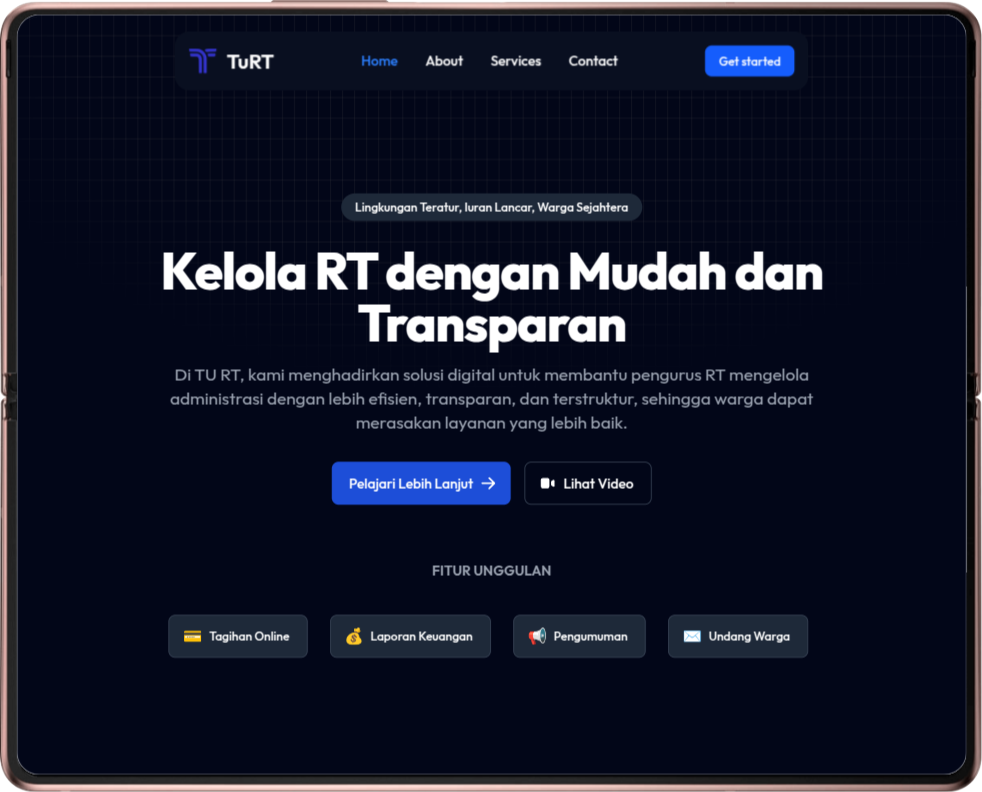
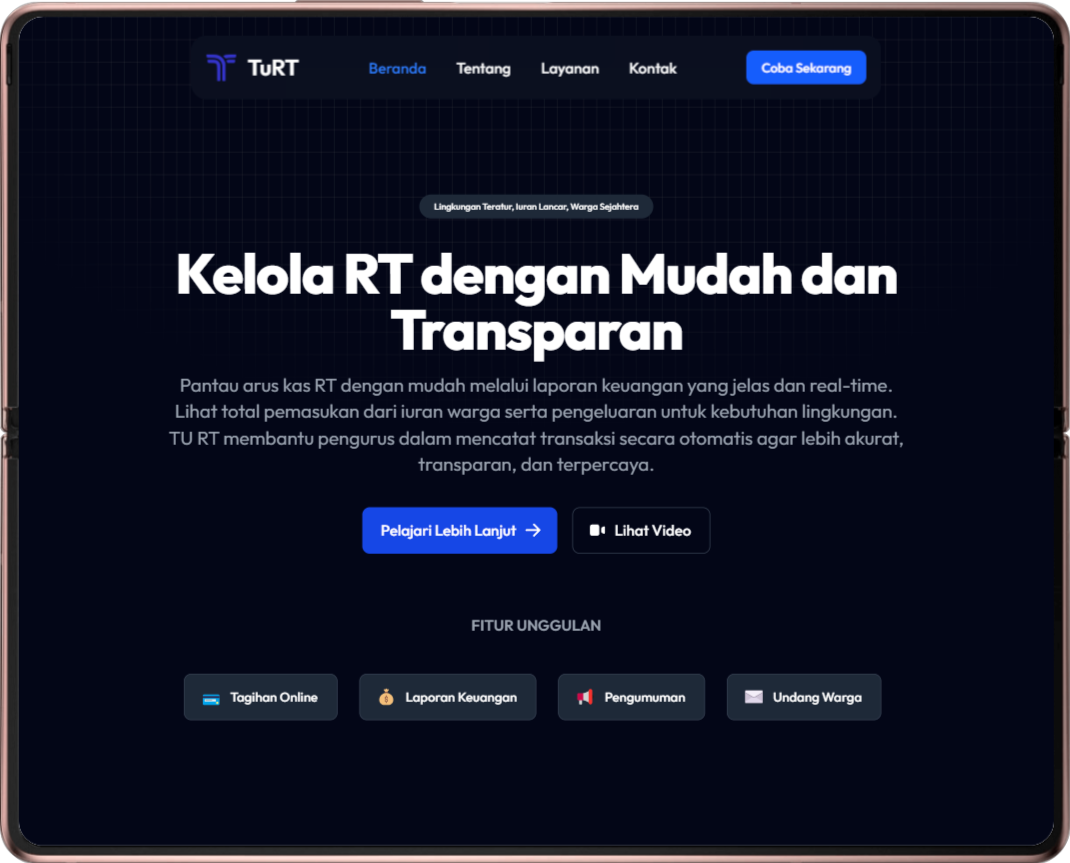
update: change navbar text to Indonesian feat: add contact feature

diff --git a/index.html b/index.html
@@ -1,5 +1,5 @@
 <!doctype html>
-<html lang="en">
+<html class="scroll-smooth" lang="en">
   <head>
     <meta charset="UTF-8" />
     <link rel="icon" type="image/svg+xml" href="/vite.svg" />
@@ -13,16 +13,16 @@
     <script src="https://cdn.jsdelivr.net/npm/apexcharts@3.46.0/dist/apexcharts.min.js"></script>
   </head>
   <body class="font-display bg-slate-950">
-    <div class="absolute top-0 left-0 -z-10 h-full w-full">
+    <div id="beranda" class="absolute top-0 left-0 -z-10 h-full w-full">
       <div class="relative h-full w-full">
         <div
           class="absolute top-0 right-0 bottom-0 left-0 bg-[linear-gradient(to_right,#4f4f4f2e_1px,transparent_1px),linear-gradient(to_bottom,#4f4f4f2e_1px,transparent_1px)] bg-[size:14px_24px] [mask-image:radial-gradient(ellipse_60%_50%_at_50%_0%,#000_70%,transparent_100%)]"></div>
       </div>
     </div>
 
-    <nav class="sticky start-0 top-0 z-20 w-full xl:top-5">
+    <nav class="sticky start-0 top-0 z-20 w-full lg:top-5">
       <div
-        class="mx-auto flex flex-wrap items-center justify-between bg-gray-950 p-4 xl:w-2/3 xl:rounded-2xl xl:bg-gray-900/50 xl:backdrop-blur-3xl">
+        class="mx-auto flex flex-wrap items-center justify-between bg-gray-950 p-4 lg:w-2/3 lg:rounded-2xl lg:bg-gray-900/50 lg:backdrop-blur-3xl">
         <a href="" class="flex items-center space-x-3 rtl:space-x-reverse">
           <img src="/logo-TuRT.svg" class="h-8" alt="TuRT Logo" />
           <span class="self-center text-2xl font-semibold whitespace-nowrap text-white">TuRT</span>
@@ -30,8 +30,8 @@
         <div class="flex space-x-3 md:order-2 md:space-x-0 rtl:space-x-reverse">
           <button
             type="button"
-            class="rounded-lg bg-blue-600 px-4 py-2 text-center text-sm font-medium text-white hover:bg-blue-700 focus:ring-4 focus:ring-blue-800 focus:outline-none">
-            Get started
+            class="cursor-pointer rounded-lg bg-blue-600 px-4 py-2 text-center text-sm font-medium text-white hover:bg-blue-700 focus:ring-4 focus:ring-blue-800 focus:outline-none">
+            Coba Sekarang
           </button>
           <button
             data-collapse-toggle="navbar-sticky"
@@ -55,31 +55,31 @@
             class="mt-4 flex flex-col rounded-lg border p-4 font-medium md:mt-0 md:flex-row md:space-x-8 md:border-0 md:p-0 rtl:space-x-reverse">
             <li>
               <a
-                href="#"
+                href="#beranda"
                 class="block rounded-sm bg-blue-700 px-3 py-2 text-white md:bg-transparent md:p-0 md:text-blue-500"
                 aria-current="page"
-                >Home</a
+                >Beranda</a
               >
             </li>
             <li>
               <a
-                href="#"
+                href="#tentang"
                 class="block rounded-sm border-gray-700 px-3 py-2 text-white hover:bg-gray-700 hover:text-white md:p-0 md:hover:bg-transparent md:hover:text-blue-500"
-                >About</a
+                >Tentang</a
               >
             </li>
             <li>
               <a
-                href="#"
+                href="#layanan"
                 class="block rounded-sm border-gray-700 px-3 py-2 text-white hover:bg-gray-700 hover:text-white md:p-0 md:hover:bg-transparent md:hover:text-blue-500"
-                >Services</a
+                >Layanan</a
               >
             </li>
             <li>
               <a
-                href="#"
+                href="#kontak"
                 class="block rounded-sm border-gray-700 px-3 py-2 text-white hover:bg-gray-700 hover:text-white md:p-0 md:hover:bg-transparent md:hover:text-blue-500"
-                >Contact</a
+                >Kontak</a
               >
             </li>
           </ul>
@@ -89,6 +89,7 @@
 
     <main class="w-full lg:pt-14">
       <section class="mx-auto max-w-7xl px-6 md:px-8 lg:px-12">
+        <!-- ***Beranda*** -->
         <section>
           <div class="mx-auto max-w-screen-xl px-4 py-8 text-center lg:px-12 lg:py-16">
             <a
@@ -169,11 +170,12 @@
         </section>
 
         <section class="relative mt-20">
-          <img class="mx-auto" src="/images/Galaxy-Fold2-Web.png" alt="" />
-          <img class="absolute top-20 -ml-16 w-64" src="/images/Samsung-Galaxy-S20-Web.png" alt="" />
+          <img class="mx-auto w-[70%]" src="/images/Galaxy-Fold2-Web.png" alt="" />
+          <img class="absolute top-20 ml-5 w-60" src="/images/Samsung-Galaxy-S20-Web.png" alt="" />
         </section>
 
-        <section class="mt-56 max-w-screen-lg">
+        <!-- ***Tentant*** -->
+        <section id="tentang" class="max-w-screen-lg pt-56">
           <p class="w-[95%] text-3xl leading-12 text-gray-300">
             <strong class="font-extrabold text-white">Atur, kelola</strong> dan
             <strong>transparankan</strong> administrasi RT dengan mudah. TU RT membantu pengurus dalam mengelola data
@@ -350,7 +352,8 @@
         </div>
       </section>
 
-      <section class="relative mt-24">
+      <!-- ***Tentant*** -->
+      <section id="layanan" class="relative pt-24">
         <div class="absolute right-0 bottom-0 h-80 w-80 rounded-full bg-blue-600 blur-[200px]"></div>
         <div class="mx-auto max-w-screen-xl px-4 py-8 sm:py-16 lg:px-6">
           <div class="mb-8 max-w-screen-md lg:mb-20">
@@ -470,7 +473,7 @@
         </div>
       </section>
 
-      <section class="mx-auto mt-28 mb-40 max-w-7xl space-y-5">
+      <section class="mx-auto mt-28 mb-20 max-w-7xl space-y-5">
         <div class="grid grid-cols-2 gap-16">
           <div class="space-y-5">
             <h3 class="text-lg text-violet-300">YOU MIGHT ASK</h3>
@@ -630,6 +633,50 @@
               </div>
             </div>
           </div>
+        </div>
+      </section>
+
+      <!-- ***Kontak*** -->
+      <section id="kontak" class="mb-20 pt-28">
+        <div class="mx-auto max-w-screen-md px-4 py-8 lg:py-16">
+          <h2 class="mb-4 text-center text-4xl font-extrabold tracking-tight text-white">Hubungi Kami</h2>
+          <p class="mb-8 text-center font-light text-gray-400 sm:text-xl lg:mb-16">
+            Ada masalah teknis? Ingin memberikan umpan balik tentang fitur beta? Butuh detail mengenai paket layanan
+            kami? Beri tahu kami.
+          </p>
+          <form action="#" class="space-y-8">
+            <div>
+              <label for="email" class="mb-2 block text-sm font-medium text-gray-300">Email Anda</label>
+              <input
+                type="email"
+                id="email"
+                class="shadow-sm-light block w-full rounded-lg border border-gray-600 bg-gray-700 p-2.5 text-sm text-white placeholder-gray-400 shadow-sm"
+                placeholder="nama@turt.com"
+                required />
+            </div>
+            <div>
+              <label for="subject" class="mb-2 block text-sm font-medium text-gray-300">Subjek</label>
+              <input
+                type="text"
+                id="subject"
+                class="shadow-sm-light block w-full rounded-lg border border-gray-600 bg-gray-700 p-3 text-sm text-white placeholder-gray-400 shadow-sm"
+                placeholder="Tentang apa pesan ini?"
+                required />
+            </div>
+            <div class="sm:col-span-2">
+              <label for="message" class="mb-2 block text-sm font-medium text-gray-400">Pesan Anda</label>
+              <textarea
+                id="message"
+                rows="6"
+                class="block w-full rounded-lg border border-gray-600 bg-gray-700 p-2.5 text-sm text-white placeholder-gray-400 shadow-sm"
+                placeholder="Tulis pesan anda..."></textarea>
+            </div>
+            <button
+              type="submit"
+              class="rounded-lg bg-blue-600 px-5 py-3 text-center text-sm font-medium text-white hover:bg-blue-700 focus:ring-4 focus:ring-blue-800 focus:outline-none sm:w-fit">
+              Kirim pesan
+            </button>
+          </form>
         </div>
       </section>
     </main>
